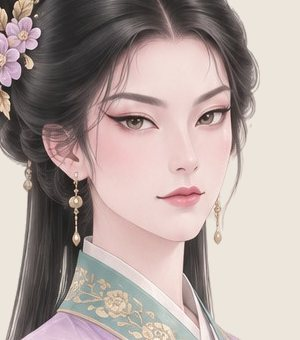
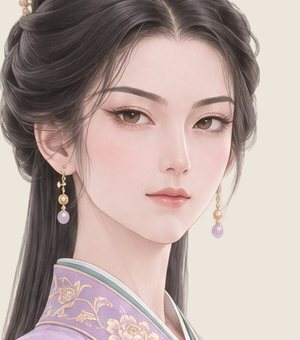
F1 Lượt 786: s51/s54 Kiêu kỳ eye redraw (no slant words), maker fixed, OLD|NEW sheet
Claude-Session: https://claude.ai/code/session_01PEhRbwSH9dPZxgfA3es174

diff --git a/dev/art/face-common/make_kieuky_L761.py b/dev/art/face-common/make_kieuky_L761.py
@@ -18,7 +18,16 @@ def _ro_open(p, mode='r', *a, **k):
 NS = {'__file__': os.path.join(D, 'make_nf4.py'), 'open': _ro_open, 'print': lambda *a, **k: None, '__name__': 'nf4'}
 exec(_open(os.path.join(D, 'make_nf4.py')).read(), NS)
 line, T7, EYES_STRAIGHT, OLD_MOUTH, NEW_MOUTH = (NS[k] for k in "line T7 EYES_STRAIGHT OLD_MOUTH NEW_MOUTH".split())
-KK = T7["Kiêu kỳ"]
+KK = dict(T7["Kiêu kỳ"])
+# owner Lượt 786 ("con mắt nó xếch quá", s51/s54): the slant words come from the Lượt 701 no-phoenix swap of the Kiêu kỳ block
+# ("long narrow PHOENIX eyes with sharply UP-SWEPT outer corners" -> "long narrow almond eyes with sharply UP-SWEPT ...").
+# New eye words for every face built from now on (foreman ROOT-57: natural, gently lifted, not slanted):
+EYE_OLD, EYE_NEW = "long narrow almond eyes with sharply UP-SWEPT outer corners", "long almond eyes with gently lifted outer corners (natural, never slanted)"
+assert KK["face"].count(EYE_OLD) == 1; KK["face"] = KK["face"].replace(EYE_OLD, EYE_NEW)
+# s52, s53, s55 were drawn (Lượt 786) with the OLD eye words: their sNN.v5.FULL.txt stay as drawn, not rewritten here.
+# s51, s54 redrawn (Lượt 786) -> sNN.v5b.FULL.txt. A new face gets VER[sid] = "v5" as usual.
+KEEP_AS_DRAWN = {"s52", "s53", "s55"}
+VER = {"s51": "v5b", "s54": "v5b"}
 
 # root pairs — EMPTY until P1 NEW16 READY. sid: (root season, main, main_hex, sec, sec_hex), words + hex exactly as palettes_season.json
 _SR = _j.load(_open(os.path.join(D, 's_root_colours.json')))   # P1 NEW16 (Lượt 763) roots, words + hex as stored
@@ -42,7 +51,7 @@ S761K = [
  "half-up: the top hair in one tall bun tilted to one side at the crown held by one long gold hairpin with a small dangling pearl, the rest long and straight behind",
  "a half-sleeved short jacket of {s} silk over a cross-collar {m} silk satin top with a soft sheen and a {m} high-waisted floor-length skirt of plain silk, small gold-embroidered lotus scrolls at the jacket edges and hem, a {s} silk sash with a small red jade pendant, long inner sleeves",
  "standing tall and upright with her weight on one leg, a long iridescent peacock tail feather held upright beside her shoulder in one hand, the other hand resting at her sash", "FF"),
-("s53", 18, [("long narrow almond eyes with sharply UP-SWEPT outer corners", "large almond eyes with sharply UP-SWEPT outer corners"),
+("s53", 18, [("long almond eyes with gently lifted outer corners", "large almond eyes with gently lifted outer corners"),
              ("a straight slim high-bridged nose", "a high-bridged nose with a slightly arched bridge")],
  "fully loose and very long, sleek, parted deeply on the left side, the right side swept back and fastened behind the ear with one small gold comb, a thin gold chain with one tiny pearl across the parting",
  "a light open beizi of {m} silk satin with a soft sheen over a cross-collar {s} inner top and a {s} floor-length skirt of plain silk, small embroidered magnolias along the front edges, a {s} silk sash with a small white jade pendant, long sleeves",
@@ -52,7 +61,7 @@ S761K = [
  "low chignon: all the hair gathered into a neat low coiled bun at the nape held by two crossed silver hairpins, one long thin lock falling in front of each ear",
  "a high-waisted {m} silk satin skirt with a soft sheen tied above the chest, a {s} wide-sleeved short top of plain silk, small embroidered gold orchids along the skirt hem and cuffs, a long {s} silk ribbon sash with a small green jade pendant",
  "standing tall and upright with her weight on one leg, a strand of white pearls draped over the fingers of one raised hand at chest height as if judging their worth, the other hand resting at her sash", "ST"),
-("s55", 17, [("long narrow almond eyes", "long narrow, slightly deep-set almond eyes"),
+("s55", 17, [("long almond eyes", "long, slightly deep-set almond eyes"),
              ("a small firm chin", "a small, softly rounded firm chin"),
              ("a straight slim high-bridged nose", "a straight slim high-bridged nose with a small lifted tip")],
  "half-up: the top hair woven into one thick braid wound around the back of the head like a crown, one small ruby hairpin pointing upward, the rest long and loose",
@@ -62,6 +71,7 @@ S761K = [
 assert len({x[0] for x in S761K}) == 5 and len({x[5] for x in S761K}) == 5   # 5 different angles
 out = {}
 for sid, age, sw, hair, outfit, pose, ak in S761K:
+    if sid in KEEP_AS_DRAWN: continue
     if sid in ROOTS: _rs, mn, mh, sn, sh = ROOTS[sid]; ext = "FULL"
     else: mn, mh, sn, sh = PH; ext = "PH"
     face = KK["face"]
@@ -70,7 +80,7 @@ for sid, age, sw, hair, outfit, pose, ak in S761K:
     v = line(age, face, KK["expr"], hair, outfit.replace("{m}", mn).replace("{s}", sn), mn, mh, sn, sh, pose, ak)
     assert "phoenix" not in v.lower(), sid
     assert v.count(OLD_MOUTH) == 1 and "(thướt tha)" in v, sid
-    out[f"{sid}.v5.{ext}"] = v.replace(OLD_MOUTH, NEW_MOUTH)
+    out[f"{sid}.{VER.get(sid, 'v5')}.{ext}"] = v.replace(OLD_MOUTH, NEW_MOUTH)
 for k, v in out.items():
     if k.endswith('.FULL'): v = FG.final(v, k)
     _open(os.path.join(D, f'{k}.txt'), 'w').write(v)

diff --git a/dev/art/face-common/make_sheet_kieuky_L786.py b/dev/art/face-common/make_sheet_kieuky_L786.py
@@ -1,0 +1,28 @@
+#!/usr/bin/env python3
+"""Owner Lượt 786 OLD|NEW sheet for the s51/s54 eye redraw (eye words 'long narrow almond eyes with sharply UP-SWEPT outer corners'
+-> 'long almond eyes with gently lifted outer corners (natural, never slanted)'), with s10 s11 s12 for reference.
+Usage: python3 make_sheet_kieuky_L786.py <dir with s51.png s51n.png s54.png s54n.png s10.png s11.png s12.png cut-outs>"""
+import sys, os
+from PIL import Image, ImageDraw, ImageFont
+D = os.path.dirname(os.path.abspath(__file__)); R = os.path.abspath(os.path.join(D, '..', '..', '..'))
+src = open(os.path.join(D, 'face_page', 'crop.py')).read(); src = src[:src.index('out=sys.argv[1]')]
+NS = {}; exec(src, NS); face = NS['face']; BG = NS['BG']
+cut = sys.argv[1]
+F = lambda s, b=False: ImageFont.truetype('/usr/share/fonts/truetype/dejavu/DejaVuSans%s.ttf' % ('-Bold' if b else ''), s)
+CW, FH, ZH, TH, GAP = 300, 660, 340, 60, 24
+cols = [('s51', 's51 CŨ (mắt xếch)'), ('s51n', 's51 MỚI (mắt tự nhiên)'), ('s54', 's54 CŨ (mắt xếch)'), ('s54n', 's54 MỚI (mắt tự nhiên)'),
+        ('s10', 's10 mẫu'), ('s11', 's11 mẫu'), ('s12', 's12 mẫu')]
+sheet = Image.new('RGB', (CW * len(cols) + 2 * GAP, 44 + FH + ZH + TH), (250, 247, 241)); dr = ImageDraw.Draw(sheet)
+dr.text((10, 10), 'Lượt 786 — Kiêu kỳ s51 s54 vẽ lại: chỉ đổi chữ mắt ("sharply UP-SWEPT" → "gently lifted, never slanted")   |   mẫu s10 s11 s12', fill=(40, 40, 40), font=F(19, True))
+for i, (s, lab) in enumerate(cols):
+    x = i * CW + (GAP if i >= 2 else 0) + (GAP if i >= 4 else 0); y = 44
+    im = Image.open(os.path.join(cut, f'{s}.png')).convert('RGBA')
+    fig = im.crop(im.split()[3].getbbox()); sc = min((CW - 10) / fig.width, (FH - 10) / fig.height)
+    fig = fig.resize((int(fig.width * sc), int(fig.height * sc)), Image.LANCZOS)
+    tile = Image.new('RGB', (CW, FH), BG); tile.paste(fig, ((CW - fig.width) // 2, FH - 5 - fig.height), fig); sheet.paste(tile, (x, y))
+    sheet.paste(face(os.path.join(cut, f'{s}.png')).resize((CW, ZH)), (x, y + FH))
+    dr.text((x + 6, y + FH + ZH + 8), lab, fill=(120, 40, 40) if 'MỚI' in lab else (40, 40, 40), font=F(17, True))
+for xx in (2 * CW + GAP // 2, 4 * CW + GAP + GAP // 2):
+    dr.line((xx, 44, xx, sheet.height), fill=(150, 150, 150), width=3)
+out = os.path.join(R, 'dev/handover/review-sheets/new-faces-v4/kieuky_L786_s51_s54.jpg')
+sheet.save(out, quality=86); print(out, os.path.getsize(out) // 1024, 'KB', sheet.size)

diff --git a/dev/handover/reports/F1-newfaces.md b/dev/handover/reports/F1-newfaces.md
@@ -69,3 +69,10 @@ I wait for your message.
 - Faults to show the owner (NOT fixed, foreman Lượt 777): s51 has an extra lilac silk-flower hair ornament at the side (not in prompt; flower sticks out a little sideways); s51 and s53 both have a lilac/lavender main colour (P1 roots) so they read alike from far; s52 and s53 faces are fairly close (oval, similar eyes) — hair/outfit differ.
 - Sheet dev/handover/review-sheets/new-faces-v4/kieuky_L761.jpg (5 new + s10 s11 s12, swatches) by make_sheet_kieuky_L761.py; face crops face_page/faces/s51–s55.jpg; FACE_CUTS / FACE_MAP / LOOK_GROUPS updated (OWNER_GROUPS already had them from P1).
 - Note: P1 root seasons on the sheet: s51 Hạ, s52 Đông, s53 Hạ, s54 Xuân, s55 Thu.
+
+## Update — owner Lượt 786: s51/s54 eyes "xếch quá" → redraw (A20 given)
+- WHY (eye-word diff): approved s10/s11/s12 say "long narrow PHOENIX eyes with sharply UP-SWEPT outer corners". Owner Lượt 695/701 banned "phoenix", so make_nf4 T7 swapped only that word → "long narrow almond eyes with sharply UP-SWEPT outer corners" (also in approved s19–s25). Without "phoenix" (a known, natural eye shape) the model reads "sharply UP-SWEPT" literally → slanted eyes. All 5 new KK carry it: s51, s52, s54 (as above), s53 "large almond eyes with sharply UP-SWEPT outer corners", s55 "long narrow, slightly deep-set almond eyes with sharply UP-SWEPT outer corners". Other face words of s51 (thick dark brows, angled jaw) / s54 (very high sharp cheekbones, lean cheeks) are swaps, not eye words.
+- FIX in make_kieuky_L761.py (only the Kiêu kỳ maker; Quyến rũ untouched, owner Lượt 787): EYE "long almond eyes with gently lifted outer corners (natural, never slanted)" for every new face; s51/s54 → v5b; s52/s53/s55 v5 kept as drawn (not rewritten); gate PASS.
+- Redraw 1 try each, same prompt/ref/seed except eye words: s51 p8ylzjyehw→cut YMlKiMSWeC, s54 w4aB1Xp7EI→cut tCRyDEwmZJ (276 credits). Eyes natural, level; s51 also lost the extra side flower. FACE_CUTS/FACE_MAP/crops point to the new ones; old cuts noted.
+- Sheet dev/handover/review-sheets/new-faces-v4/kieuky_L786_s51_s54.jpg (OLD|NEW + s10 s11 s12) by make_sheet_kieuky_L786.py.
+- s52/s53/s55 still have the slant words — no redraw unless the owner says.
